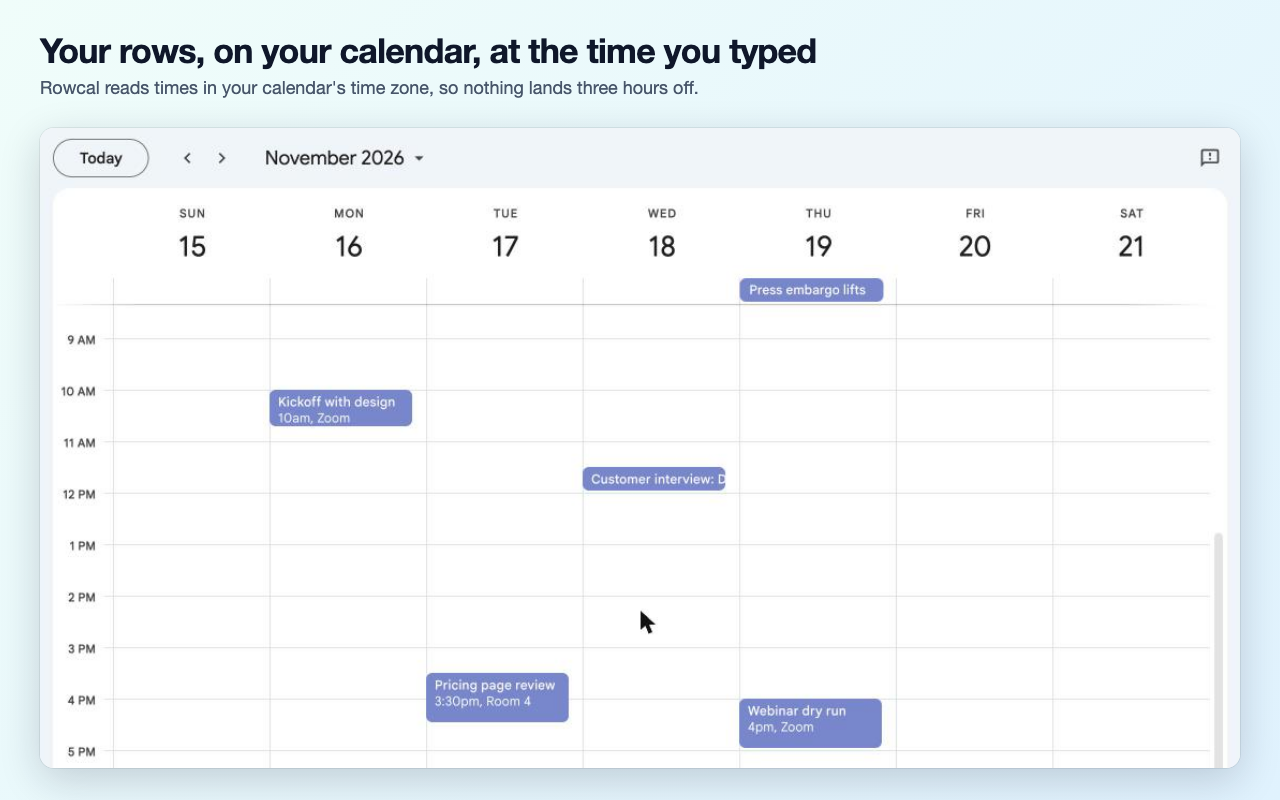
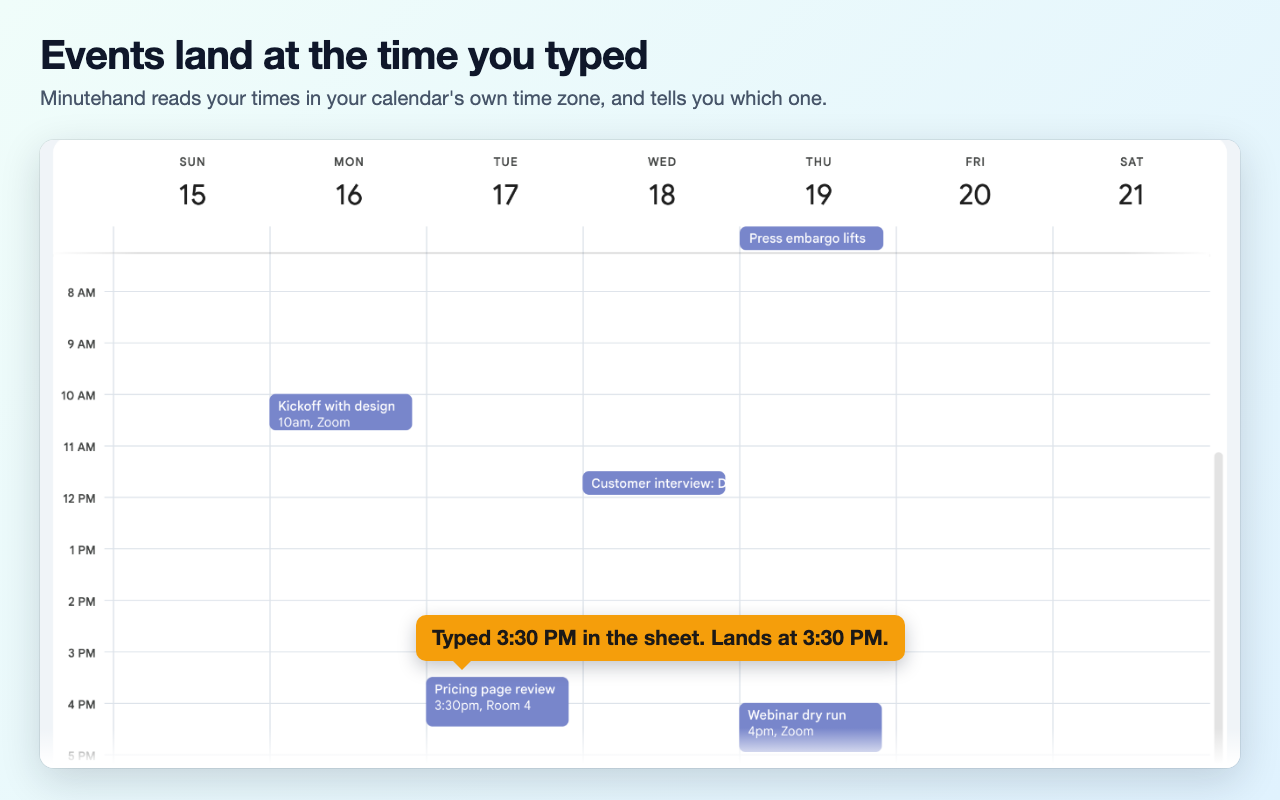
Rename to Minutehand (rowCall and Calrows already exist); sharp six-screenshot set from a live run; listing rewritten around verified permissions

diff --git a/docs/privacy.html b/docs/privacy.html
@@ -1,22 +1,22 @@
-<!DOCTYPE html><html lang="en"><head><meta charset="utf-8"><meta name="viewport" content="width=device-width,initial-scale=1"><title>Rowcal Privacy Policy</title>
+<!DOCTYPE html><html lang="en"><head><meta charset="utf-8"><meta name="viewport" content="width=device-width,initial-scale=1"><title>Minutehand Privacy Policy</title>
 <style>body{font:16px/1.6 -apple-system,Segoe UI,Roboto,sans-serif;max-width:680px;margin:40px auto;padding:0 20px;color:#222}h1{font-size:26px}h2{font-size:18px;margin-top:28px}</style></head><body>
-<h1>Rowcal Privacy Policy</h1>
+<h1>Minutehand Privacy Policy</h1>
 <p><em>Last updated: November 9, 2026</em></p>
-<p>Rowcal is a Google Sheets add-on that turns spreadsheet rows into Google Calendar events and imports calendar events into a sheet. It is built so that your data stays inside your Google account.</p>
-<h2>What Rowcal accesses</h2>
+<p>Minutehand is a Google Sheets add-on that turns spreadsheet rows into Google Calendar events and imports calendar events into a sheet. It is built so that your data stays inside your Google account.</p>
+<h2>What Minutehand accesses</h2>
 <ul>
-<li><strong>The spreadsheet it is open in</strong> (scope: <code>spreadsheets.currentonly</code>). Rowcal reads the rows you choose to sync and writes a hidden "Rowcal ID" column so it can update events instead of duplicating them. It cannot see your other spreadsheets.</li>
-<li><strong>Calendar events</strong> (scope: <code>calendar.events</code>). Rowcal creates, updates and deletes events on the calendar you pick, only when you press Sync or turn on auto-sync. It never shares calendars or changes calendar settings.</li>
-<li><strong>Your list of calendars</strong> (scope: <code>calendar.calendarlist.readonly</code>), so you can pick one from a menu and so Rowcal knows that calendar's time zone.</li>
+<li><strong>The spreadsheet it is open in</strong> (scope: <code>spreadsheets.currentonly</code>). Minutehand reads the rows you choose to sync and writes a hidden "Minutehand ID" column so it can update events instead of duplicating them. It cannot see your other spreadsheets.</li>
+<li><strong>Calendar events</strong> (scope: <code>calendar.events</code>). Minutehand creates, updates and deletes events on the calendar you pick, only when you press Sync or turn on auto-sync. It never shares calendars or changes calendar settings.</li>
+<li><strong>Your list of calendars</strong> (scope: <code>calendar.calendarlist.readonly</code>), so you can pick one from a menu and so Minutehand knows that calendar's time zone.</li>
 </ul>
-<h2>What Rowcal stores</h2>
-<p>Settings (which calendar, which columns), a list of event IDs it created, and a run log are stored inside the spreadsheet's own properties and a hidden "Rowcal Log" sheet. A monthly usage count and, if you upgrade, the email you used at checkout are stored in your Google account's add-on properties. Nothing is stored on servers run by Rowcal.</p>
+<h2>What Minutehand stores</h2>
+<p>Settings (which calendar, which columns), a list of event IDs it created, and a run log are stored inside the spreadsheet's own properties and a hidden "Minutehand Log" sheet. A monthly usage count and, if you upgrade, the email you used at checkout are stored in your Google account's add-on properties. Nothing is stored on servers run by Minutehand.</p>
 <h2>What leaves Google</h2>
-<p>Only one thing: if you activate Rowcal Pro, the add-on asks Stripe whether the checkout email you typed has an active subscription. No spreadsheet or calendar content is ever sent anywhere. Payments are handled entirely by Stripe under <a href="https://stripe.com/privacy">Stripe's privacy policy</a>.</p>
+<p>Only one thing: if you activate Minutehand Pro, the add-on asks Stripe whether the checkout email you typed has an active subscription. No spreadsheet or calendar content is ever sent anywhere. Payments are handled entirely by Stripe under <a href="https://stripe.com/privacy">Stripe's privacy policy</a>.</p>
 <h2>Google API Services User Data Policy</h2>
-<p>Rowcal's use of information received from Google APIs adheres to the <a href="https://developers.google.com/terms/api-services-user-data-policy#additional_requirements_for_specific_api_scopes">Google API Services User Data Policy</a>, including the Limited Use requirements. Data is used only to provide the sync and import features you ask for. It is not used for advertising, not sold, and not shared with anyone.</p>
-<h2>Removing Rowcal</h2>
-<p>Uninstall the add-on from Google Sheets or revoke access at <a href="https://myaccount.google.com/permissions">myaccount.google.com/permissions</a>. Delete the hidden "Rowcal ID" column and "Rowcal Log" sheet if you no longer want them. Events already on your calendar stay there.</p>
+<p>Minutehand's use of information received from Google APIs adheres to the <a href="https://developers.google.com/terms/api-services-user-data-policy#additional_requirements_for_specific_api_scopes">Google API Services User Data Policy</a>, including the Limited Use requirements. Data is used only to provide the sync and import features you ask for. It is not used for advertising, not sold, and not shared with anyone.</p>
+<h2>Removing Minutehand</h2>
+<p>Uninstall the add-on from Google Sheets or revoke access at <a href="https://myaccount.google.com/permissions">myaccount.google.com/permissions</a>. Delete the hidden "Minutehand ID" column and "Minutehand Log" sheet if you no longer want them. Events already on your calendar stay there.</p>
 <h2>Contact</h2>
 <p>Questions: <a href="https://github.com/bjhegney-ntia/rowcal/issues">open an issue on GitHub</a>.</p>
 </body></html>

diff --git a/docs/terms.html b/docs/terms.html
@@ -1,16 +1,16 @@
-<!DOCTYPE html><html lang="en"><head><meta charset="utf-8"><meta name="viewport" content="width=device-width,initial-scale=1"><title>Rowcal Terms of Service</title>
+<!DOCTYPE html><html lang="en"><head><meta charset="utf-8"><meta name="viewport" content="width=device-width,initial-scale=1"><title>Minutehand Terms of Service</title>
 <style>body{font:16px/1.6 -apple-system,Segoe UI,Roboto,sans-serif;max-width:680px;margin:40px auto;padding:0 20px;color:#222}h1{font-size:26px}h2{font-size:18px;margin-top:28px}</style></head><body>
-<h1>Rowcal Terms of Service</h1>
+<h1>Minutehand Terms of Service</h1>
 <p><em>Last updated: November 9, 2026</em></p>
-<p>Rowcal is provided by Brian Hegney ("we"). By installing it you agree to these terms.</p>
+<p>Minutehand is provided by Brian Hegney ("we"). By installing it you agree to these terms.</p>
 <h2>The service</h2>
-<p>Rowcal syncs rows in a Google Sheet to Google Calendar and imports events back. The free plan allows a set number of event changes each month. Rowcal Pro removes that limit and adds hourly auto-sync.</p>
+<p>Minutehand syncs rows in a Google Sheet to Google Calendar and imports events back. The free plan allows a set number of event changes each month. Minutehand Pro removes that limit and adds hourly auto-sync.</p>
 <h2>Payments and refunds</h2>
 <p>Pro is billed by Stripe as a subscription. Cancel any time from the Stripe receipt or by opening an issue; access continues to the end of the paid period. If Pro does not work for you, ask within 14 days of purchase for a full refund.</p>
 <h2>Your responsibility</h2>
-<p>You control which calendar Rowcal writes to and when it syncs. Preview before syncing, and keep "Delete events whose rows were removed" off if you share the calendar with others who add their own events. You must have the right to modify any calendar you connect.</p>
+<p>You control which calendar Minutehand writes to and when it syncs. Preview before syncing, and keep "Delete events whose rows were removed" off if you share the calendar with others who add their own events. You must have the right to modify any calendar you connect.</p>
 <h2>No warranty</h2>
-<p>Rowcal is provided as is. We work to keep it reliable and will tell you about known problems, but we are not liable for missed or duplicated events or any resulting loss. Our total liability is limited to what you paid in the last 12 months.</p>
+<p>Minutehand is provided as is. We work to keep it reliable and will tell you about known problems, but we are not liable for missed or duplicated events or any resulting loss. Our total liability is limited to what you paid in the last 12 months.</p>
 <h2>Changes</h2>
 <p>We may update these terms; the date above will change. Continued use after a change means you accept it.</p>
 <p>Contact: <a href="https://github.com/bjhegney-ntia/rowcal/issues">open an issue on GitHub</a>.</p>

diff --git a/docs/index.html b/docs/index.html
@@ -1,18 +1,19 @@
-<!DOCTYPE html><html lang="en"><head><meta charset="utf-8"><meta name="viewport" content="width=device-width,initial-scale=1"><title>Rowcal — Sheets to Calendar, preview first</title>
+<!DOCTYPE html><html lang="en"><head><meta charset="utf-8"><meta name="viewport" content="width=device-width,initial-scale=1"><title>Minutehand: Google Sheets to Google Calendar sync, preview first</title>
 <style>body{font:16px/1.6 -apple-system,Segoe UI,Roboto,sans-serif;max-width:680px;margin:40px auto;padding:0 20px;color:#222}h1{font-size:28px}h2{font-size:18px;margin-top:28px}li{margin:6px 0}</style></head><body>
-<h1>Rowcal</h1>
+<h1>Minutehand</h1>
 <p>A Google Sheets add-on that turns rows into Google Calendar events, and shows you every change before it happens.</p>
 <ul>
 <li><strong>Preview first.</strong> See what will be created, updated or deleted, then press Sync.</li>
-<li><strong>No duplicates.</strong> Rowcal remembers which row made which event and updates it in place.</li>
-<li><strong>Times land where you typed them.</strong> Rowcal reads times in your calendar's time zone, not the spreadsheet's hidden one, so nothing ends up three hours off.</li>
+<li><strong>No duplicates.</strong> Minutehand remembers which row made which event and updates it in place.</li>
+<li><strong>Times land where you typed them.</strong> Minutehand reads times in your calendar's time zone, not the spreadsheet's hidden one, so nothing ends up three hours off.</li>
 <li><strong>Real spreadsheets.</strong> Formula dates, separate date and time columns, all-day events, any column order.</li>
 <li><strong>Import a date range</strong> of events into the sheet; imported rows stay linked.</li>
-<li><strong>Minimal permissions.</strong> Only the sheet it is open in and the events on the calendar you pick.</li>
+<li><strong>The smallest ask we could make.</strong> It sees only the one spreadsheet it is open in, never your other files. It cannot delete or share your calendars, and it never asks for your contacts, email address or profile.</li>
 </ul>
 <h2>Plans</h2>
 <p>Free: 50 event changes a month. Pro: unlimited changes and hourly auto-sync.</p>
 <h2>Support</h2>
 <p>Something not mapping, or a bug? <a href="https://github.com/bjhegney-ntia/rowcal/issues">Open an issue</a> and you will get a reply.</p>
 <p><a href="privacy.html">Privacy policy</a> · <a href="terms.html">Terms of service</a></p>
+<p style="font-size:13px;color:#666">Google Sheets, Google Calendar and Google Drive are trademarks of Google LLC.</p>
 </body></html>

diff --git a/src/Code.js b/src/Code.js
@@ -1,14 +1,14 @@
-/** Rowcal: Sheets → Calendar sync with a preview first. Apps Script side. */
+/** Minutehand: Sheets → Calendar sync with a preview first. Apps Script side. */
 
 var FREE_MONTHLY_CHANGES = 50;
-var LOG_SHEET = 'Rowcal Log';
+var LOG_SHEET = 'Minutehand Log';
 
 function onInstall(e) { onOpen(e); }
 function onOpen(e) {
-  SpreadsheetApp.getUi().createAddonMenu().addItem('Open Rowcal', 'showSidebar').addToUi();
+  SpreadsheetApp.getUi().createAddonMenu().addItem('Open Minutehand', 'showSidebar').addToUi();
 }
 function showSidebar() {
-  var html = HtmlService.createHtmlOutputFromFile('Sidebar').setTitle('Rowcal');
+  var html = HtmlService.createHtmlOutputFromFile('Sidebar').setTitle('Minutehand');
   SpreadsheetApp.getUi().showSidebar(html);
 }
 
@@ -19,7 +19,7 @@ function sheet_(sheetId) {
   if (sheetId === undefined || sheetId === null) return ss.getActiveSheet();
   return ss.getSheets().filter(function (s) { return s.getSheetId() === Number(sheetId); })[0] || null;
 }
-var NO_SHEET = { error: 'That tab no longer exists. Reopen Rowcal on the tab you want to sync.' };
+var NO_SHEET = { error: 'That tab no longer exists. Reopen Minutehand on the tab you want to sync.' };
 
 // ---------- settings ----------
 function sheetKey_(sheet) { return 'rowcal_' + sheet.getSheetId(); }
@@ -60,7 +60,7 @@ function effectiveMap_(sheet, settings) {
 function getState(sheetId) {
   var sheet = sheet_(sheetId);
   if (!sheet) return NO_SHEET;
-  if (sheet.getName() === LOG_SHEET) return { error: 'This is Rowcal\'s own log tab. Open Rowcal on the tab that holds your events.' };
+  if (sheet.getName() === LOG_SHEET) return { error: 'This is Minutehand\'s own log tab. Open Minutehand on the tab that holds your events.' };
   var settings = getSettings_(sheet);
   var headers = headers_(sheet);
   var lic = licenseState_();
@@ -343,7 +343,7 @@ function activateLicense(email, sheetId) {
   if (!/^[^@\s]+@[^@\s]+\.[^@\s]+$/.test(email)) return { error: 'Enter the email you used at checkout.' };
   var ok = stripeHasActiveSubscription_(email);
   if (ok === null) return { error: 'Could not reach the licence server. Try again in a minute.' };
-  if (!ok) return { error: 'No active Rowcal Pro subscription found for ' + email + '.' };
+  if (!ok) return { error: 'No active Minutehand Pro subscription found for ' + email + '.' };
   userProps_().setProperties({ rowcal_license_email: email, rowcal_license_until: String(Date.now() + 86400000) });
   return getState(sheetId);
 }

diff --git a/src/Sidebar.html b/src/Sidebar.html
@@ -16,7 +16,7 @@
   .scroll{max-height:230px;overflow:auto;margin-top:6px}
   .check{display:flex;align-items:center;gap:8px;margin-top:8px;color:#202124;font-size:13px}
 </style></head><body>
-<h2>Rowcal</h2>
+<h2>Minutehand</h2>
 <div class="muted">Rows in <b id="sheetName"></b> become calendar events. Nothing changes until you press Sync. <a href="#" onclick="repin();return false;">Use the tab I'm on</a></div>
 
 <h3>1. Calendar</h3>
@@ -92,7 +92,7 @@ function save(patch){ run('saveSettings', patch, S.sheetId).then(render).catch(f
 function renderPlan(){
   var b = document.getElementById('planBox');
   if (S.pro) {
-    b.innerHTML = '<b>Rowcal Pro</b> · unlimited changes, hourly auto-sync<br><span class="small muted">'+esc(S.licenseEmail)+' · <a href="#" onclick="run(\'removeLicense\', S.sheetId).then(render);return false;">sign out</a></span>' +
+    b.innerHTML = '<b>Minutehand Pro</b> · unlimited changes, hourly auto-sync<br><span class="small muted">'+esc(S.licenseEmail)+' · <a href="#" onclick="run(\'removeLicense\', S.sheetId).then(render);return false;">sign out</a></span>' +
       '<label class="check"><input type="checkbox" id="autoSync" '+(S.autoSync?'checked':'')+' onchange="toggleAuto(this.checked)"> Auto-sync this sheet every hour</label>';
   } else {
     var left = Math.max(0, S.freeLimit - S.usage);

diff --git a/test/Dev.js b/test/Dev.js
@@ -139,7 +139,7 @@ function rowcalE2E_(out) {
   ok('editing an imported row updates its event', s9.counts.update === 1 && s9.counts.create === 0 && events().length === total, JSON.stringify(s9.counts));
 
   // ---- run log
-  var log = ss.getSheetByName('Rowcal Log');
+  var log = ss.getSheetByName('Minutehand Log');
   ok('run log has a line per run', !!log && log.getLastRow() >= 10, log && log.getLastRow());
   ss.setActiveSheet(sheet);
   return finish_(ss, out);
@@ -197,7 +197,7 @@ function devDemo() {
     ['Launch day', '11/23/2026', '', '', '', ''],
     ['Launch webinar', '11/23/2026', '1:00 PM', '2:00 PM', 'Zoom', '200 registered'],
     ['Retro', '11/30/2026', '9:30 AM', '10:15 AM', 'Room 4', 'What to keep, what to drop'],
-    ['Follow-up emails (date TBD)', '', '', '', '', 'No date yet, so Rowcal skips it']
+    ['Follow-up emails (date TBD)', '', '', '', '', 'No date yet, so Minutehand skips it']
   ];
   sheet.getRange(1, 1, rows.length, 6).setValues(rows);
   sheet.getRange(1, 1, 1, 6).setFontWeight('bold').setBackground('#f1f3f4');

diff --git a/src/Lib.js b/src/Lib.js
@@ -1,9 +1,9 @@
 /**
- * Rowcal pure logic. No Apps Script services here, so it runs in Node tests.
+ * Minutehand pure logic. No Apps Script services here, so it runs in Node tests.
  * Loaded in Apps Script as a global `ROWCAL`.
  */
 var ROWCAL = (function () {
-  var ID_HEADER = 'Rowcal ID';
+  var ID_HEADER = 'Minutehand ID';
   var FIELDS = ['title', 'start', 'startTime', 'end', 'endTime', 'description', 'location', 'allDay', 'calendar'];
   var SYNONYMS = {
     title: ['title', 'event', 'event title', 'event name', 'subject', 'name', 'summary', 'what'],

diff --git a/test/lib.test.js b/test/lib.test.js
@@ -1,7 +1,7 @@
 const assert = require('assert');
 const R = require('../src/Lib.js');
 
-const headers = ['Title', 'Date', 'Start time', 'End time', 'Where', 'Notes', 'Rowcal ID'];
+const headers = ['Title', 'Date', 'Start time', 'End time', 'Where', 'Notes', 'Minutehand ID'];
 const map = R.autoMap(headers);
 assert.deepStrictEqual([map.title, map.start, map.startTime, map.endTime, map.location, map.description, map.id], [0, 1, 2, 3, 4, 5, 6]);
 assert.strictEqual(map.end, -1);

diff --git a/LISTING.md b/LISTING.md
@@ -1,45 +1,84 @@
-# Rowcal — Marketplace listing (draft, working name)
+# Minutehand — Marketplace listing (draft, working name)
 
-**Title (max 50):** Rowcal: Sheets to Calendar Sync, Preview First
+Limits and rules below were read from Google's own pages on 2026-11-10: [create a listing](https://developers.google.com/workspace/marketplace/create-listing) and [branding](https://developers.google.com/workspace/marketplace/terms/branding).
 
-**Short description (max 100):** Turn rows into calendar events. See every change before it happens. No duplicates, ever.
+**App name (max 50, must match the OAuth consent screen):** Minutehand: Sheets™ to Calendar™ Sync & Import
 
-**Detailed description:**
+**Short description (max 200):** Turn Google Sheets™ rows into Google Calendar™ events, and import events back. Preview every change first. No duplicates. Asks only for the one spreadsheet it is open in.
 
-Rowcal turns a Google Sheet into Google Calendar events, and back. Unlike most sync add-ons, it shows you exactly what will happen before it touches your calendar.
+**Detailed description (max 16,000):**
 
-**Preview before anything changes.** Press Preview and see "8 to create, 1 to update, 0 to delete" with the rows listed. Press Sync only when it looks right.
+Minutehand turns the rows of a Google Sheets™ spreadsheet into Google Calendar™ events, and pulls events back into a sheet. It shows you every change before it makes one, and it asks for as little access as it can.
 
-**No duplicates.** Rowcal remembers which row made which event. Run it again and again: edited rows update their event, unchanged rows are left alone, and deleted rows can remove their event.
+HOW IT WORKS
 
-**Times land where you typed them.** Many spreadsheets carry a hidden time zone that is wrong, which is why other tools put events three hours off. Rowcal reads your times in your calendar's own time zone and tells you which zone it is using.
+1. Open Minutehand from the Extensions menu and pick a calendar.
+2. Press Preview. Minutehand reads your headers, matches the columns for you, and lists what it would create, update or delete.
+3. Press Sync when the list looks right. Nothing touches your calendar before that.
 
-**Works with real spreadsheets.** Formula dates, separate date and time columns, all-day events, and any column order. Rowcal reads your headers and maps them for you; change the mapping in two clicks.
+WHAT YOU GET
 
-**Import too.** Pull a date range of events from any calendar into the sheet. Imported rows stay linked, so editing them updates the calendar.
+Preview before anything changes. You see "8 to create, 1 to update, 0 to delete" with the rows listed. Rows it has to skip are named, with the reason.
 
-**Honest limits.** Free: 50 event changes a month, counted in the sidebar. Pro: unlimited changes and hourly auto-sync. No account on our website, no hidden quota, and a run log you can open any time.
+No duplicates. Minutehand remembers which row made which event. Sync as often as you like: edited rows update their event, unchanged rows are left alone, and removed rows can remove their event if you switch that on.
 
-**Minimal permissions.** Rowcal can only see the spreadsheet it is open in, never your other files. It asks for calendar events and the list of your calendars, and nothing you sync leaves Google.
+Events land at the time you typed. A spreadsheet has its own time zone setting, and it often does not match your calendar. Minutehand reads your times in your calendar's own time zone and shows you which zone it is using.
 
-Questions or a column layout that doesn't map? https://bjhegney-ntia.github.io/rowcal
+Works with real spreadsheets. Formula dates, separate date and time columns, all-day events, and any column order.
 
-**Category:** Productivity → Calendars & Scheduling (Sheets)
+Import too. Pull any date range of events into a sheet. Imported rows stay linked, so editing one updates the calendar instead of making a copy.
+
+A run log. Every sync is recorded in a tab of your own spreadsheet.
+
+THE SMALLEST ASK WE COULD MAKE
+
+Before you install any calendar add-on, open its Permissions tab. Minutehand asks to:
+
+- See and edit the one spreadsheet it is open in. It cannot see your other spreadsheets or your Drive.
+- Create and change calendar events. It cannot delete or share your calendars, and it only touches the calendar you pick.
+- See the list of your calendars, to fill the picker and read that calendar's time zone.
+
+It does not ask for your contacts, your email address or your profile. It also asks to show its sidebar, to run the hourly sync if you switch that on, and to contact Stripe only to check a Pro subscription. Nothing you sync leaves Google.
+
+PLANS
+
+Free: 50 event changes a month, on any dates, counted in the sidebar where you can see it. No account to create on our website.
+Pro: unlimited changes and hourly auto-sync.
+
+NOT YET
+
+Guest invites, Google Meet™ links and recurring events are not supported yet. If you need one of them, tell us and it moves up the list.
+
+Questions, or a column layout that does not map? https://bjhegney-ntia.github.io/rowcal
+
+Google Sheets™, Google Calendar™, Google Drive™ and Google Meet™ are trademarks of Google LLC.
+
+**Category:** Productivity
 **Pricing text:** Free of charge with paid features
-**Pro price (sketch):** $4/month or $29/year via Stripe
-**Keywords in copy:** sheets to calendar, calendar sync, create events from spreadsheet, bulk calendar events, import calendar to sheets
+**Pro price (open, your call):** sketch was $4/month or $29/year. Sheet2Cal, the best-rated rival, charges $19.99 once for life. See the project note.
 
-**Graphics (built by `store/build.sh`, all in `store/`):**
-1. `screenshot-1.png` — See every change before it touches your calendar (preview, 8 to create)
-2. `screenshot-2.png` — Your rows, on your calendar, at the time you typed (calendar week)
-3. `screenshot-3.png` — Edit a row and the event updates. No duplicates. (1 update)
-4. `screenshot-4.png` — Import any date range, and keep it linked
-5. `screenshot-5.png` — An honest free plan, and a log of every run
+**Graphics (built by `store/build.sh`, all in `store/`, all 1280x800):**
+1. `screenshot-1.png` — See every change before it touches your calendar
+2. `screenshot-2.png` — Events land at the time you typed (calendar week)
+3. `screenshot-3.png` — Edit a row. The event updates. No duplicates.
+4. `screenshot-4.png` — Asks for only what it uses (permissions, in plain words)
+5. `screenshot-5.png` — Import any date range, and keep it linked
+6. `screenshot-6.png` — A free plan with nothing hidden (counter and run log)
 - Icons: `icon-128.png`, `icon-96.png`, `icon-48.png`, `icon-32.png` · Card banner: `banner-220x140.png`
+- The Sheet and sidebar panels are real captures from a live run on 2026-11-10. Headlines, the teal callouts and the permissions slide are added graphics.
+
+**Why this copy (checked 2026-11-10 on the public Permissions tab of each listing):**
+- Sheets2GCal (8M+ installs) asks to see, edit, create and delete all your spreadsheets, plus your email address and profile.
+- Sheet.Cal (25K+) asks to see, edit, share and permanently delete all your calendars, to download your contacts, plus email and profile. It already sells a preview, no duplicates and a log, so those alone are not a wedge against it.
+- Sheet2Cal (27K+) asks to see, edit, share and permanently delete all your calendars, plus email and profile.
+- Minutehand asks for none of those. The copy never names a rival; it tells the reader where to look.
+- Not checked: whether rivals place times correctly. The copy therefore claims only what Minutehand does.
+
+**Name check (2026-11-10):** the first working name, Rowcal, was dropped. "rowCall" is a Sheets add-on with 391K+ installs, and "Calrows" is a direct rival. A Marketplace search for "Minutehand" returns nothing, and a web search found no product by that name. No formal trademark search has been run.
 
 **Permissions Google will show, and why (for the OAuth verification form):**
-- View and manage spreadsheets this application has been installed in — read rows, write the hidden Rowcal ID column and run log
-- View and edit events on all your calendars — create, update and delete only the events Rowcal made, on the calendar the user picks
+- View and manage spreadsheets this application has been installed in — read rows, write the hidden Minutehand ID column and run log
+- View and edit events on all your calendars — create, update and delete only the events Minutehand made, on the calendar the user picks
 - See the list of Google calendars you're subscribed to — fill the calendar picker and read that calendar's time zone
 - Connect to an external service — one call to Stripe to check a Pro subscription by checkout email
 - Allow this application to run when you are not present — hourly auto-sync (Pro)
@@ -48,6 +87,7 @@ Questions or a column layout that doesn't map? https://bjhegney-ntia.github.io/r
 **Known before submitting:**
 - Stripe is not set up, so the Upgrade button is hidden and everyone is on the free plan.
 - Hourly auto-sync ran correctly as a Sheet-bound script. Google does not run timers in add-on test mode, so it is unproven as a published add-on until a private or public publish.
+- The two Apps Script projects are still titled "Rowcal" and "Rowcal test", and the GitHub repo and page addresses still say `rowcal`. Rename the shipped project to Minutehand when the Cloud project is created; the name users see comes from the listing and the consent screen.
 - `scripts/push.sh prod` pushes the shipped project and refuses if test harness code is present.
 
 **Support URL:** https://bjhegney-ntia.github.io/rowcal  ·  **Privacy:** https://bjhegney-ntia.github.io/rowcal/privacy.html  ·  **Terms:** https://bjhegney-ntia.github.io/rowcal/terms.html

diff --git a/README.md b/README.md
@@ -1,4 +1,4 @@
-# Rowcal
+# Minutehand
 
 Google Sheets add-on: rows → Calendar events with a preview first. Apps Script, no servers.
 
@@ -9,7 +9,7 @@ Google Sheets add-on: rows → Calendar events with a preview first. Apps Script
 
 ## Deploy (one-time setup, needs Brian's Google login)
 1. `npx @google/clasp login` (opens a browser once)
-2. `npx @google/clasp create --type sheets --title "Rowcal" --rootDir src` (creates a bound test sheet + script)
-3. `npx @google/clasp push` then open the sheet → Extensions → Rowcal → Open Rowcal
+2. `npx @google/clasp create --type sheets --title "Minutehand" --rootDir src` (creates a bound test sheet + script)
+3. `npx @google/clasp push` then open the sheet → Extensions → Minutehand → Open Minutehand
 4. Script properties (Apps Script editor → Project settings): `STRIPE_RESTRICTED_KEY` (read-only on Customers and Subscriptions), `UPGRADE_URL` (Stripe payment link)
 5. Marketplace: Cloud project → OAuth consent (brand verification; sensitive scopes only, no CASA) → Marketplace SDK → listing → submit
